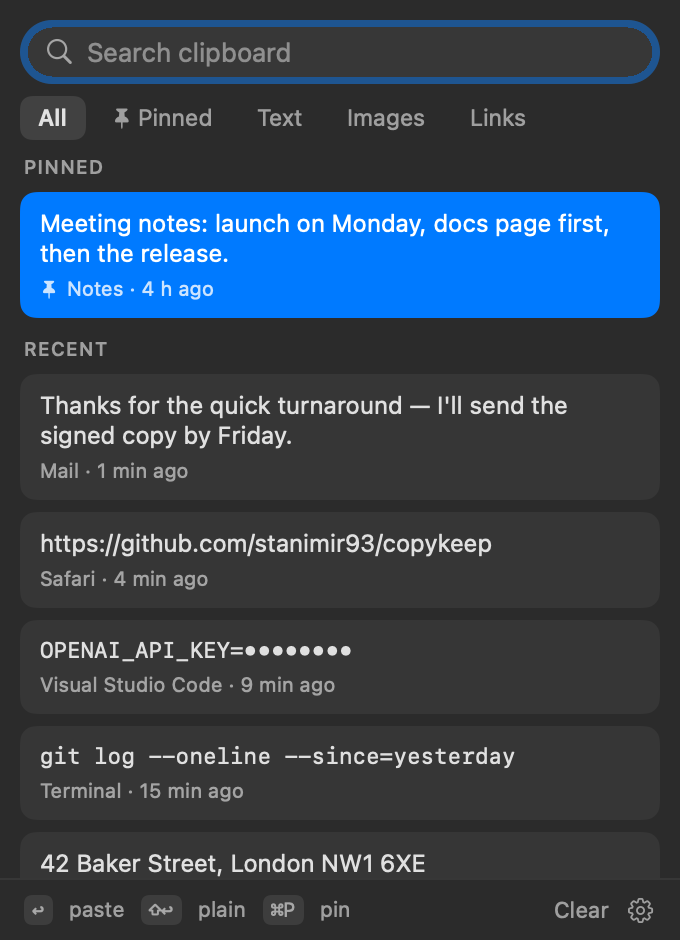
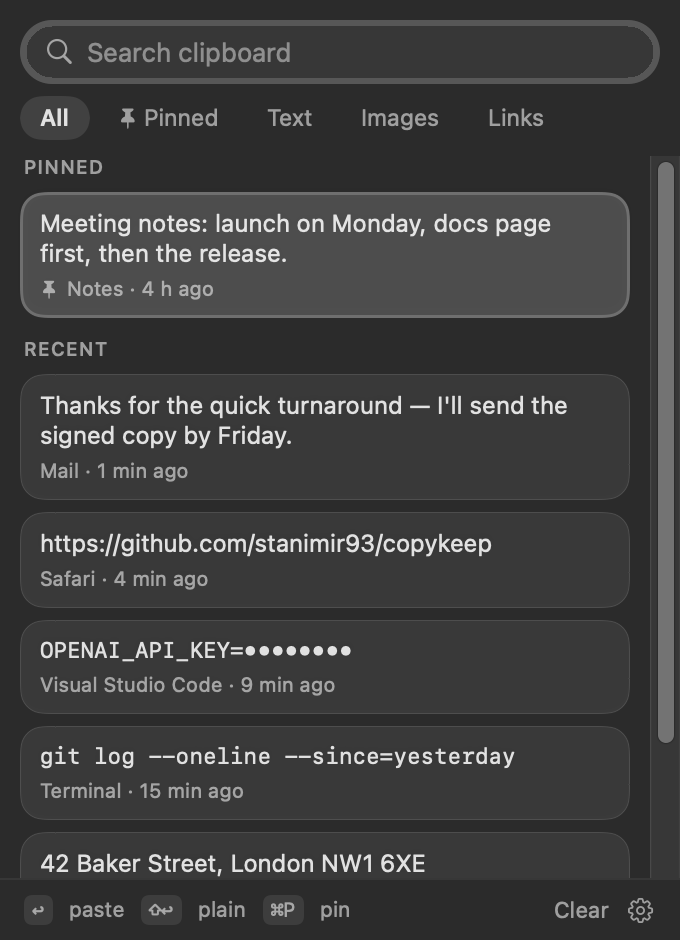
Liquid Glass panel with grey selection and edge-to-edge images
The panel is see-through glass like Spotlight (popover material before
macOS 26) with 20pt corners. Clips are Settings-style cards with a
hairline edge and soft shadow, the selection and the search focus band
are grey instead of the accent colour, tabs are capsules, and images
fill their card with no padding.

Changed region(s): [[0.0309, 0.1543, 1.0, 0.8021], [0.0309, 0.0, 0.9882, 0.1543]]

diff --git a/Sources/Copykeep/PanelView.swift b/Sources/Copykeep/PanelView.swift
@@ -4,6 +4,7 @@ import SwiftUI
 /// The popup: search field, tabs, the clips, and a line of key hints.
 struct PanelView: View {
     static let size = CGSize(width: 340, height: 470)
+    static let cornerRadius: CGFloat = 20
 
     @ObservedObject var model: PanelModel
     @ObservedObject var history: History
@@ -35,9 +36,9 @@ struct PanelView: View {
                         Text(t.rawValue)
                     }
                     .font(.system(size: 11.5, weight: model.tab == t ? .semibold : .regular))
-                    .padding(.horizontal, 9)
+                    .padding(.horizontal, 10)
                     .padding(.vertical, 4)
-                    .background(RoundedRectangle(cornerRadius: 6).fill(model.tab == t ? Color.primary.opacity(scheme == .light ? 0.085 : 0.12) : .clear))
+                    .background(Capsule().fill(model.tab == t ? Color.primary.opacity(scheme == .light ? 0.085 : 0.12) : .clear))
                     .contentShape(Rectangle())
                 }
                 .buttonStyle(.plain)
@@ -185,27 +186,38 @@ struct ClipRow: View {
     @State private var hovered = false
     @Environment(\.colorScheme) private var scheme
 
+    private static let radius: CGFloat = 12
+
     var body: some View {
-        VStack(alignment: .leading, spacing: 4) {
-            content
-            HStack(spacing: 4) {
-                if clip.pinned { Image(systemName: "pin.fill").font(.system(size: 8)) }
-                Text(meta).lineLimit(1)
+        let shape = RoundedRectangle(cornerRadius: Self.radius, style: .continuous)
+        VStack(alignment: .leading, spacing: 0) {
+            if clip.kind == .image {
+                // The picture fills the card edge to edge; only the line under it is inset.
+                image
+                metaLine.padding(.horizontal, 10).padding(.vertical, 6)
+            } else {
+                VStack(alignment: .leading, spacing: 4) {
+                    content
+                    metaLine
+                }
+                .padding(.horizontal, 10)
+                .padding(.vertical, 8)
             }
-            .font(.system(size: 10))
-            .foregroundStyle(selected ? Color.white.opacity(0.8) : Color.secondary)
         }
         .frame(maxWidth: .infinity, alignment: .leading)
-        .padding(.horizontal, 10)
-        .padding(.vertical, 8)
-        .background(RoundedRectangle(cornerRadius: 8).fill(selected ? Color.accentColor : Color.primary.opacity(scheme == .light ? 0.03 : 0.06)))
+        .background(selected ? selectedFill : cardFill)
+        .clipShape(shape)
+        // Like System Settings' grouped boxes: a hairline edge and a soft shadow.
+        .overlay(shape.strokeBorder(Color.primary.opacity(selected ? 0.22 : (scheme == .light ? 0.08 : 0.12)),
+                                    lineWidth: selected ? 1.5 : 0.5))
+        .shadow(color: .black.opacity(scheme == .light ? 0.06 : 0.2), radius: 2, y: 1)
         .overlay(alignment: .topTrailing) {
             if hovered {
                 HStack(spacing: 2) {
                     iconButton(clip.pinned ? "pin.slash" : "pin", help: clip.pinned ? "Unpin (⌘P)" : "Pin (⌘P)", action: onPin)
                     iconButton("trash", help: "Delete (⌘⌫)", action: onDelete)
                 }
-                .padding(4)
+                .padding(5)
             }
         }
         .contentShape(Rectangle())
@@ -216,20 +228,38 @@ struct ClipRow: View {
         }
     }
 
+    /// Frosted white in light mode so cards read on the glass, a faint lift in dark mode.
+    private var cardFill: Color { scheme == .light ? Color.white.opacity(0.6) : Color.white.opacity(0.07) }
+    /// The selection is grey, as in Spotlight's results, not the accent colour.
+    private var selectedFill: Color { scheme == .light ? Color.black.opacity(0.09) : Color.white.opacity(0.17) }
+
+    private var metaLine: some View {
+        HStack(spacing: 4) {
+            if clip.pinned { Image(systemName: "pin.fill").font(.system(size: 8)) }
+            Text(meta).lineLimit(1)
+        }
+        .font(.system(size: 10))
+        .foregroundStyle(.secondary)
+    }
+
+    @ViewBuilder private var image: some View {
+        if let thumbnail {
+            Image(nsImage: thumbnail)
+                .resizable()
+                .aspectRatio(contentMode: .fill)
+                .frame(maxWidth: .infinity)
+                .frame(height: 90)
+                .clipped()
+        } else {
+            Rectangle().fill(Color.primary.opacity(0.08)).frame(height: 90)
+                .overlay(Image(systemName: "photo").foregroundStyle(.secondary))
+        }
+    }
+
     @ViewBuilder private var content: some View {
         switch clip.kind {
         case .image:
-            if let thumbnail {
-                Image(nsImage: thumbnail)
-                    .resizable()
-                    .aspectRatio(contentMode: .fill)
-                    .frame(maxWidth: .infinity)
-                    .frame(height: 70)
-                    .clipShape(RoundedRectangle(cornerRadius: 5))
-            } else {
-                RoundedRectangle(cornerRadius: 5).fill(Color.primary.opacity(0.08)).frame(height: 70)
-                    .overlay(Image(systemName: "photo").foregroundStyle(.secondary))
-            }
+            image
         case .file:
             HStack(spacing: 6) {
                 if let first = clip.fileURLs.first {
@@ -237,13 +267,13 @@ struct ClipRow: View {
                 }
                 Text(clip.preview(maskSecrets: maskSecrets)).lineLimit(2).font(.system(size: 12))
             }
-            .foregroundStyle(selected ? Color.white : Color.primary)
+            .foregroundStyle(.primary)
         case .text, .link:
             Text(clip.preview(maskSecrets: maskSecrets))
                 .font(clip.isCode ? .system(size: 11, design: .monospaced) : .system(size: 12))
                 .lineLimit(clip.kind == .link ? 2 : 3)
                 .truncationMode(clip.kind == .link ? .middle : .tail)
-                .foregroundStyle(selected ? Color.white : Color.primary)
+                .foregroundStyle(.primary)
         }
     }
 
@@ -277,7 +307,7 @@ struct SearchField: NSViewRepresentable {
         let box = NSView()
         box.wantsLayer = true
         box.layer?.cornerRadius = 16 // a capsule, like System Settings' search field
-        box.layer?.borderWidth = 3.5
+        box.layer?.borderWidth = 3
 
         let icon = NSImageView(image: NSImage(systemSymbolName: "magnifyingglass", accessibilityDescription: nil)!)
         icon.contentTintColor = .secondaryLabelColor
@@ -327,9 +357,9 @@ struct SearchField: NSViewRepresentable {
         context.coordinator.count?.stringValue = searching ? (n == 1 ? "1 result" : "\(n) results") : ""
         let light = box.effectiveAppearance.bestMatch(from: [.aqua, .darkAqua]) == .aqua
         box.effectiveAppearance.performAsCurrentDrawingAppearance {
-            box.layer?.backgroundColor = NSColor.labelColor.withAlphaComponent(light ? 0.03 : 0.06).cgColor
-            // Settings' focus ring: a soft accent-coloured band, shown while the field has the focus.
-            box.layer?.borderColor = NSColor.controlAccentColor.withAlphaComponent(0.45).cgColor
+            box.layer?.backgroundColor = (light ? NSColor.white.withAlphaComponent(0.6) : NSColor.labelColor.withAlphaComponent(0.06)).cgColor
+            // A soft grey focus band, like the search fields in macOS 26.
+            box.layer?.borderColor = NSColor.labelColor.withAlphaComponent(light ? 0.1 : 0.16).cgColor
         }
     }
 

diff --git a/Sources/Copykeep/PanelController.swift b/Sources/Copykeep/PanelController.swift
@@ -21,36 +21,27 @@ final class Panel: NSPanel {
     override var canBecomeKey: Bool { true }
 }
 
-/// The panel's backing: white in light mode like System Settings, the see-through popover
-/// material in dark mode. Follows the system when it switches.
-final class PanelBackground: NSView {
-    private let effect = NSVisualEffectView()
-
-    override init(frame: NSRect) {
-        super.init(frame: frame)
-        wantsLayer = true
-        effect.frame = bounds
-        effect.material = .popover
-        effect.blendingMode = .behindWindow
-        effect.state = .active
-        effect.autoresizingMask = [.width, .height]
-        addSubview(effect)
+/// The panel's see-through backing, like Spotlight: Liquid Glass on macOS 26 and later, the
+/// popover material before. Holds the panel's content so the glass can tint it.
+func makeGlass(around content: NSView, cornerRadius: CGFloat) -> NSView {
+    if #available(macOS 26.0, *) {
+        let glass = NSGlassEffectView()
+        glass.cornerRadius = cornerRadius
+        glass.contentView = content
+        return glass
     }
-
-    required init?(coder: NSCoder) { fatalError() }
-
-    override var wantsUpdateLayer: Bool { true }
-
-    override func updateLayer() {
-        let light = effectiveAppearance.bestMatch(from: [.aqua, .darkAqua]) == .aqua
-        effect.isHidden = light
-        layer?.backgroundColor = light ? NSColor.white.cgColor : nil
-    }
-
-    override func viewDidChangeEffectiveAppearance() {
-        super.viewDidChangeEffectiveAppearance()
-        needsDisplay = true
-    }
+    let effect = NSVisualEffectView()
+    effect.material = .popover
+    effect.blendingMode = .behindWindow
+    effect.state = .active
+    effect.wantsLayer = true
+    effect.layer?.cornerRadius = cornerRadius
+    effect.layer?.cornerCurve = .continuous
+    effect.layer?.masksToBounds = true
+    content.frame = effect.bounds
+    content.autoresizingMask = [.width, .height]
+    effect.addSubview(content)
+    return effect
 }
 
 /// Lets a click on a row act straight away instead of first focusing the panel.
@@ -76,19 +67,18 @@ final class PanelController: NSObject, NSWindowDelegate {
         model = PanelModel(history: history)
         super.init()
 
-        let container = NSView(frame: NSRect(origin: .zero, size: PanelView.size))
-        container.wantsLayer = true
-        container.layer?.cornerRadius = 12
-        container.layer?.masksToBounds = true
-        container.layer?.borderWidth = 0.5
-        container.layer?.borderColor = NSColor(white: 0.5, alpha: 0.35).cgColor
-        let background = PanelBackground(frame: container.bounds)
-        background.autoresizingMask = [.width, .height]
-        container.addSubview(background)
         let hosting = FirstMouseHostingView(rootView: PanelView(model: model, history: history))
-        hosting.frame = container.bounds
-        hosting.autoresizingMask = [.width, .height]
-        container.addSubview(hosting)
+        let glass = makeGlass(around: hosting, cornerRadius: PanelView.cornerRadius)
+        glass.frame = NSRect(origin: .zero, size: PanelView.size)
+        // A hairline edge like System Settings' windows; the window server adds the shadow.
+        let container = NSView(frame: glass.frame)
+        container.wantsLayer = true
+        container.layer?.cornerRadius = PanelView.cornerRadius
+        container.layer?.cornerCurve = .continuous
+        container.layer?.borderWidth = 0.5
+        container.layer?.borderColor = NSColor(white: 0.5, alpha: 0.3).cgColor
+        glass.autoresizingMask = [.width, .height]
+        container.addSubview(glass)
         panel.contentView = container
         panel.delegate = self
 
@@ -132,6 +122,7 @@ final class PanelController: NSObject, NSWindowDelegate {
         panel.setFrame(NSRect(x: x, y: y, width: size.width, height: size.height), display: true)
 
         panel.makeKeyAndOrderFront(nil)
+        panel.invalidateShadow() // follow the rounded corners, not the square frame
         panel.makeFirstResponder(model.field)
         startKeyMonitor()
     }

diff --git a/Sources/Copykeep/main.swift b/Sources/Copykeep/main.swift
@@ -54,7 +54,7 @@ if let i = args.firstIndex(of: "--snapshot"), i + 1 < args.count {
     model.trusted = true // the snapshot shows the panel, not this process's Accessibility access
     model.query = query
     let view = NSHostingView(rootView: PanelView(model: model, history: history)
-        .background(dark ? Color(white: 0.17) : Color.white)) // as PanelBackground
+        .background(dark ? Color(white: 0.17) : Color(white: 0.93))) // stands in for the glass, which doesn't draw offscreen
     view.frame = NSRect(origin: .zero, size: PanelView.size)
     let window = NSWindow(contentRect: view.frame, styleMask: [.borderless], backing: .buffered, defer: false)
     window.appearance = NSAppearance(named: dark ? .darkAqua : .aqua)
